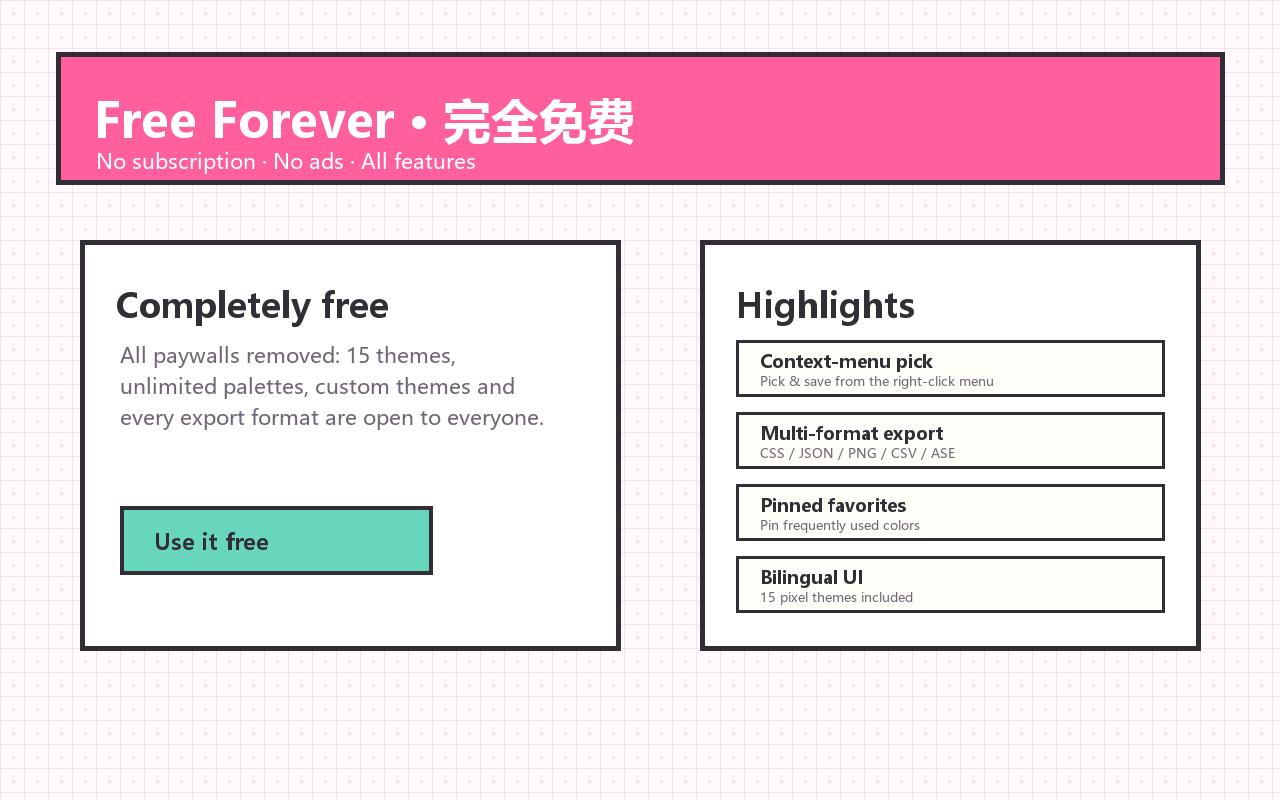
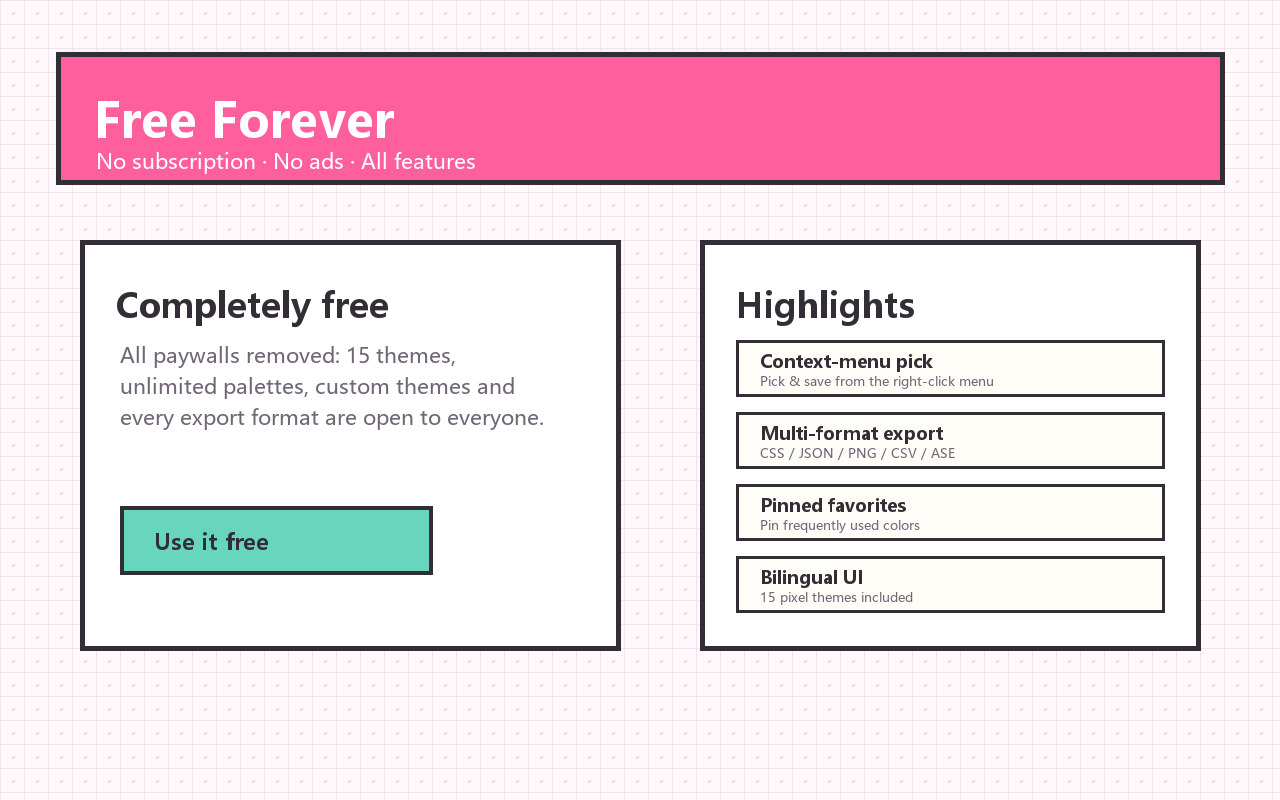
截图第 4 张标题按语言拆分：en 仅 Free Forever，zh 仅 永久免费
- s4 标题从硬编码双语改为 TEXTS 字典字段（s4_hero）
- 英文版删除中文描述，中文版删除英文，保持各语言纯净

Changed region(s): [[0.3125, 0.125, 0.5, 0.1875]]

diff --git a/scripts/generate-store-screenshots.py b/scripts/generate-store-screenshots.py
@@ -46,6 +46,7 @@ TEXTS = {
         "s3_desc": "一键导出常用格式，方便放进设计系统、前端项目或团队文档。",
         "s3_cards": [("CSS", "变量格式"), ("SCSS", "$ 变量"), ("JSON", "可再次导入"),
                      ("Tailwind", "配置片段"), ("CSV", "表格数据"), ("ASE", "PS 色板")],
+        "s4_hero": "永久免费",
         "s4_sub": "无订阅 · 无广告 · 全部功能开放",
         "s4_free_title": "完全免费",
         "s4_free_desc": "已移除全部付费墙：15 套主题、无限色卡、自定义主题和所有导出格式对每位用户开放。",
@@ -83,6 +84,7 @@ TEXTS = {
         "s3_desc": "Export in common formats for design systems, front-end projects and team docs.",
         "s3_cards": [("CSS", "CSS variables"), ("SCSS", "$ variables"), ("JSON", "Re-import"),
                      ("Tailwind", "Config snippet"), ("CSV", "CSV table"), ("ASE", "Swatches")],
+        "s4_hero": "Free Forever",
         "s4_sub": "No subscription · No ads · All features",
         "s4_free_title": "Completely free",
         "s4_free_desc": "All paywalls removed: 15 themes, unlimited palettes, custom themes and every export format are open to everyone.",
@@ -291,7 +293,7 @@ def screenshot_3(t, outdir):
 
 def screenshot_4(t, outdir):
     img, draw = base()
-    hero(draw, "Free Forever · 完全免费", t["s4_sub"])
+    hero(draw, t["s4_hero"], t["s4_sub"])
     rect(draw, (80, 240, 620, 650), COLORS["white"], width=5)
     text(draw, (116, 282), t["s4_free_title"], f=F["h2"])
     paragraph(draw, (120, 340), t["s4_free_desc"], 440, f=F["body"])
